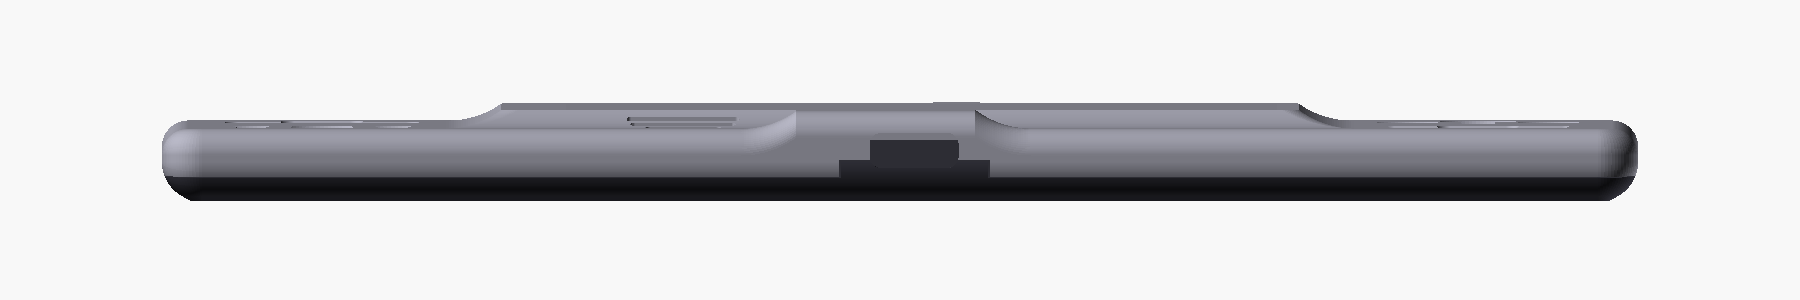
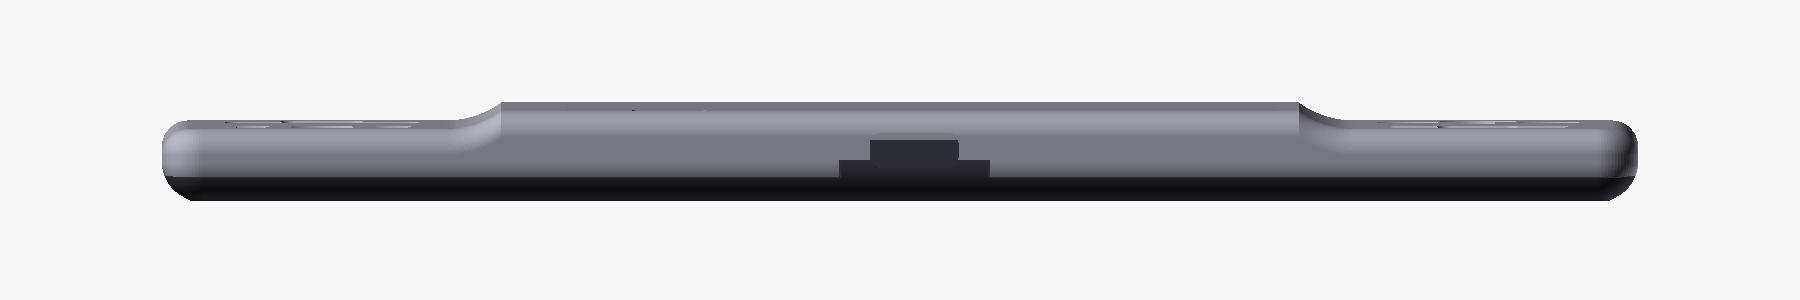
ref_design case: the side slope change reverted (Alex): the screen block is the full-width band again, the DS Lite slope at its two ends only
The island with slopes on all four sides and its ears are gone (the 3.5 in panel, the D-pad 0.60, the keys' old height, check_wall's
band, the sunk speaker, the frame notches and the board placement stay). Symmetry checked on the mesh (images/outside_top.png).

Changed region(s): [[0.2489, 0.33, 0.4978, 0.51], [0.5289, 0.33, 0.7467, 0.51]]

diff --git a/hardware/ref_design/case/check_wall.py b/hardware/ref_design/case/check_wall.py
@@ -30,13 +30,13 @@ POS = json.load(open(os.path.join(HERE, "positions.json")))
 CASE_W, CASE_L = POS["case"]["w"], POS["case"]["l"]
 SRC = open(os.path.join(HERE, "case.scad")).read()
 RUN = 5.85                            # the slope's run (case.scad uni_run, 5.85 with the 3.5 in panel's 9.6 mm face)
-EARS = [[float(v) for v in e.split(",")] for e in re.search(r"uni_ears = \[\[(.*?)\]\];", SRC).group(1).split("], [")]   # [side, y0, y1]
+SLOPE_Y = 46.97                       # where the core grooves start (tongue_y - tongue_y_fit): the band's side walls end there
 END_Y = CASE_L / 2 - 3.35             # where the ends' round starts (63.0 on the 133 mm case)
 
 
 def in_ear(y, side):
     """Is the side wall at y under an ear's flat top or its slope (the lifted round)?"""
-    return any(e[0] == side and e[1] - RUN - 0.5 <= y <= e[2] + RUN + 0.5 for e in EARS)
+    return abs(y) < SLOPE_Y
 
 
 def sections(m, positions, axis=1):
@@ -104,7 +104,7 @@ def mesh_min(m):
     gx0, gx1 = [float(v) for v in re.search(r"grille_x = \[([-\d.]+), ([-\d.]+)\]", SRC).group(1, 2)]
     spk = POS["speaker"]["c"]
     pins = [(p[0] - 100, 100 - p[1]) for p in POS["pinholes"]]
-    isl = op[(op[:, 2] > 7.78) & ((np.abs(op[:, 0]) > 28.1) | (np.abs(op[:, 1]) > 42.4)) & (np.abs(op[:, 0]) < 35.5) & ~usb
+    isl = op[(op[:, 2] > 7.78) & (np.abs(op[:, 1]) > 42.4) & (np.abs(op[:, 1]) < 48.5) & (np.abs(op[:, 0]) < 35.5) & ~usb
              & ~((op[:, 0] > gx0 - 1) & (op[:, 0] < gx1 + 1) & (np.abs(op[:, 1] - (100 - spk[1])) < 8.5)) 
              & ~np.any([np.hypot(op[:, 0] - px, op[:, 1] - py) < 2.5 for px, py in pins], axis=0)]
     ds = cKDTree(inner).query(isl)[0]

diff --git a/hardware/ref_design/case/SHELL.md b/hardware/ref_design/case/SHELL.md
@@ -8,6 +8,36 @@ The top replaced the island and the two decks of 2026-10-23 on 2026-10-25 (Alex:
 go uni body for the top and print with pla support material"). Those, and everything built round them, are under
 "Rejected" below and in full in [SHELL_ISLAND.md](SHELL_ISLAND.md) (this file as it stood the day before).
 
+## 2026-10-26: the 3.5 in panel (this section wins over the numbers below, which are the 2.4 in case's)
+
+Alex: "do everything you need to get a 3mf ready with the ER-TFT035IPS-6", optimising cost, minimal bezel and minimal height. (An island with the
+DS Lite's slope on all four sides and ears over the tall side parts was built the same day and **reverted** on Alex's word: "Revert the side slope
+change", "the asymmetry doesn't look good". The screen block is the full-width band of the 2.4 in case again.)
+
+| | 2026-10-25 (2.4 in) | now (3.5 in) |
+|---|---|---|
+| Outside | 77.4 x 132.7 | **77.4 x 156.64** |
+| Thickness | 9.55 at the screen, 7.7 at the ends | **9.6** (the panel's 2.45), 7.7 |
+| Board | 72.4 x 127.7, a 54 x 37 hole | **72.4 x 151.64**, a 54 x 37 hole under the glass and an 11 x 16 hole for the speaker |
+| Panel | 42.72 x 59.46 | 54.50 x 83.00 (active area 48.96 x 73.44, the old design's numbers, unverified) |
+
+The case is as wide as before because the buttons' clusters set 75.4 and the strips beside the 54.5 mm glass hold J1, J2 and J4 (a PicoBlade is 7.65 across
+and 5.2 deep, its plug 4 mm more). The length is the glass, the DS Lite slope's run (5.85 at the 1.9 step) and the clusters (`piece_to_glass` 5.2).
+The band runs wall to wall at the screen's height, so J1, J2, J4 and J5 stand under it as before; the **speaker** lies sunk in its own hole in the board
+(its seat 0.9 in the tub's floor, like the cell), half under the glass, its grille in the band's flat face; the **panel frame** has notches where J2 and
+J4 stand beside it; the four side screws stand at the glass's corners (x +-32.5, y +-40). `check_fit.py` takes the band's ceiling and lets parts up
+to 1.05 mm lie under the FPC's body; `check_wall.py` follows the band (slope 0.708, sides and ends 0.669 / 0.670, 3D 0.665).
+
+**Symmetry** (checked on the printed mesh: `images/outside_top.png`, the outer face's height compared with its mirror image): across the case, the
+band, its two slopes, the side rounds and the decks are identical left and right, and the two ends are identical end for end (the buttons are
+seat 1's turned 180 degrees, D-pad left and A/B/X/Y right for each player, as a DS Lite's; mirrored left to right they would put the D-pad on the
+right for seat 2). What is not symmetric: the screen window, which is the glass's active area, 2.28 mm towards seat 2 on the glass (bezel 43.9 and 39.3
+along the case, 14.2 each side across it); the speaker's grille and the two pinholes, the USB-C opening (right wall), all by design.
+
+**Bezels** (case edge to active area, window edge to active area, window edge to case edge; the window is the active area and 1.0 more all round):
+across the case 14.22 / 1.0 / 13.22 each side; along it 43.88 / 1.0 / 42.88 at seat 1's end and 39.32 / 1.0 / 38.32 at seat 2's. Before and after:
+`images/before_outside_*.png` (the 2.4 in case) and `images/outside_*.png`.
+
 ![outside, from the front](images/outside_front.png)
 ![outside, from the back](images/outside_back.png)
 

diff --git a/hardware/ref_design/case/CELLCUT_FOR_CASE.md b/hardware/ref_design/case/CELLCUT_FOR_CASE.md
@@ -10,6 +10,27 @@ wall: the screws moved; the USB-C moved down its wall and, with the speaker, bac
 position. `case.scad` doesn't know any of this yet; nothing in the case was changed.
 The board's side is `board/placement.py` (`CUTOUTS`, `SIDE_SCREWS`, `USB_Y`).
 
+## Re-placed for the 3.5 in panel (2026-10-26): this section wins over every number below
+
+Board 72.4 x 151.64 (case 77.4 x 156.64 x 9.6). Case frame (x right, y up towards seat 2), heights over the board's top copper.
+
+| | Case (x, y) now | Was (2.4 in) |
+|---|---|---|
+| Cell hole (54 x 37, r 1) | x -27.0 .. 27.0, y 6 .. 43 (under the glass's seat-2 half) | -28.7 .. 25.3, -3.8 .. 33.2 |
+| Speaker hole (stadium, 11 x 16) | centre 29.7, -24.5; the speaker sunk in it on a 0.6 floor pocket, 0.9 over the board | lying on the board's top at 28.7, -11.4 |
+| J3 (the FPC's ZIF) | 0, -17.59, mouth towards seat 1 | 5.5, -8.2 |
+| J1 | y 1.5 | 2.0 |
+| J2 / J4 | -31.7, 2.56 (mouth +y) / 31.8, -8.2 (mouth -y, towards the speaker) | -30.7, -7.24 / 31.9, -27.0 |
+| J5, SW18/19 | -32.1, -5.0 / x -31.0, y -30.2 and -33.85 | -32.6, 15.2 / -32.35, -20.7 and -24.35 |
+| Side screws H1 to H4 | (+-32.5, +-40), the glass's corners | (32.5, 29), (-32.5, 29), (25.9, -21.95), (-33, -15.2) |
+| U6, U8 | beside each other in seat 1's spine (-3.2, -55), (3.2, -56) | 0, -36.4 and 1.2, -44.2 |
+| Core U4 | -24, -14 (its panel pins face J3's pads) | -22.2, -19.5 |
+
+The FPC (the old design's numbers, unverified): the tail zone (x +-13.25, y -27.1 to -13.7) keeps nothing but J3 and flat pads under it; the **body** (x -22 to 27, y -43 to -27.1)
+allows parts up to **1.05** tall (it lies on the glass's back; U4, X1, L2, U2 and every 0402/0603 are 1.0 or lower), but nothing 5.1 mm in from the glass's edge (the neck).
+Taller parts are under the glass (2.2 limit) or beside it under the full-width band (3.5), the ends' ceiling beyond its slopes (`case/check_fit.py` computes it
+from `case.scad`'s `ISLAND` echo line). The routing: `route.py` no longer pre-routes the USB pair by hand (`ROUTE_USB_PAIR=1` brings it back), Freerouting does.
+
 ## Routing levers (2026-10-24, branch `ref-design-levers`, an experiment Alex has not picked yet)
 
 To make the board easier to route without changing its size: the UART connector J6, the four
